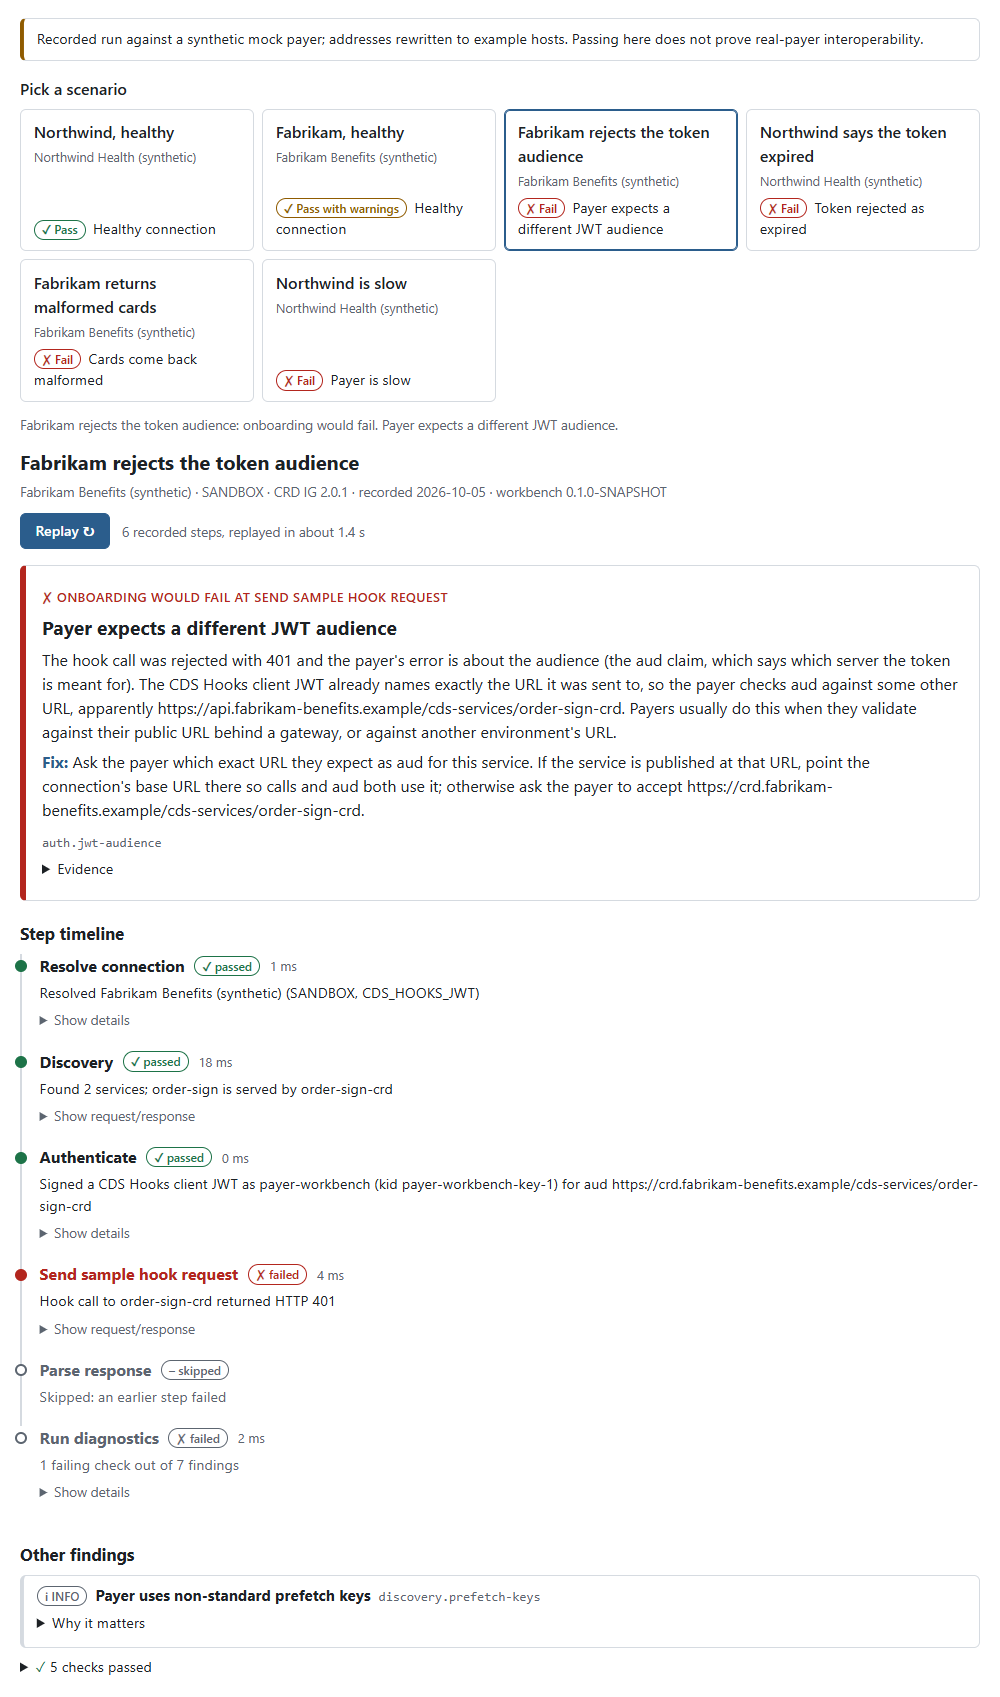
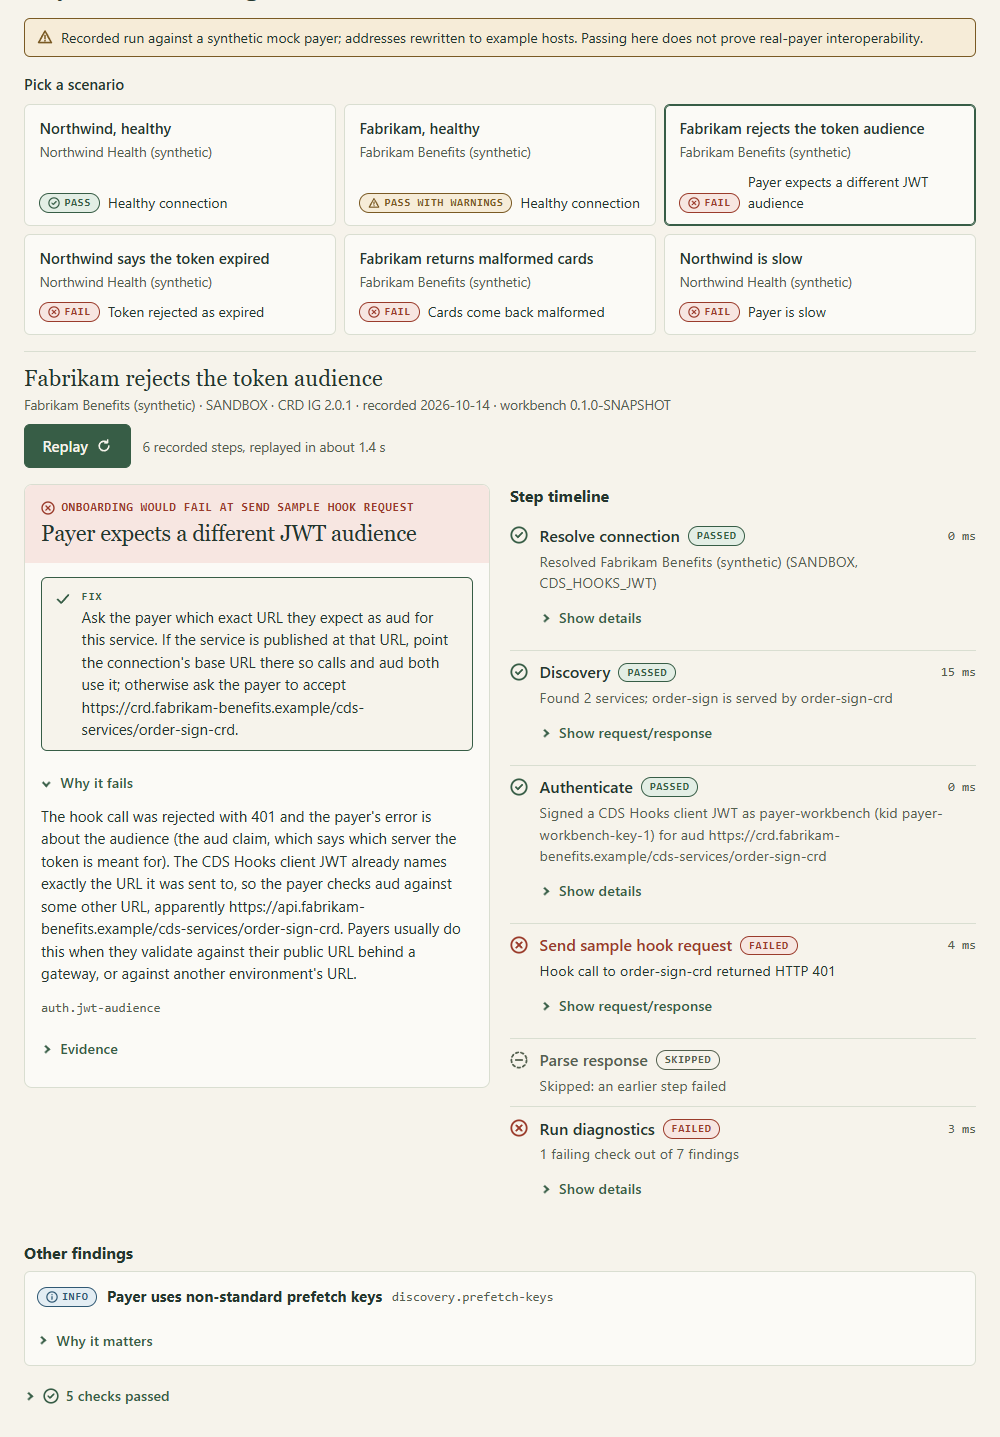
Regenerate the README screenshots and describe the redesigned layout
The README now describes the two-column workspace, the fault and override drawers,
the verdict-first results, the running state, the report's verdict, UTC times and
print rules, and the replay's Fix-first result card and workbench tokens. The UI
testing contract names the states to sweep and the Letter print check.

Claude-Session: https://claude.ai/code/session_01DeFVeTfctTdVnXMom21BJv

Changed region(s): [[0.0, 0.0, 0.992, 1.0], [0.496, 0.7349, 0.744, 0.8573], [0.465, 0.6736, 0.496, 0.7042]]

diff --git a/README.md b/README.md
@@ -72,7 +72,7 @@ To check a change in the running app (launch, doctor, drive the main path, evide
 ./mvnw -pl workbench-app spring-boot:run
 ```
 
-![A failing run: the hook request is rejected with 401 and the findings explain why](docs/screenshots/failing-run.png)
+![A failing run: the setup column beside the verdict card, which names the rejected hook request, its Fix and evidence, then the step timeline with the 401 exchange open](docs/screenshots/failing-run.png)
 
 On startup the app launches all three mock payers in-process on loopback ephemeral ports and seeds a `SANDBOX` `ConnectionRecord` for each in a directory-core `FileBasedConnectionStore` under a temp directory (owner-only where the file system supports POSIX permissions, and deleted on shutdown). Credentials (Northwind's client secret, Fabrikam's and Tailspin's separate RSA signing keys) are generated at startup and held only in memory; they are never written to disk, logged or returned by the API.
 
@@ -87,7 +87,11 @@ A run records these steps, each with its status, latency and redacted HTTP excha
 
 Discovery and hook calls go through the router's `CdsHooksClient`, which owns authentication, token caching, retries, timeouts and response parsing. Discovery uses an unauthenticated copy of the connection because all three synthetic payers advertise public discovery. The SDK's TOKEN and HOOK exchange events populate the separate Authenticate and Hook request steps; an OAuth2 401 shows both hook attempts and the token refresh. Diagnostics evaluate the final hook outcome once. For the JWT payer, a transport observer retains only the claims of the JWT the SDK actually sends. Token event bodies contain only `token_type`, `expires_in` and `scope`; token failures use the SDK's sanitized typed error metadata.
 
-The UI has a payer picker, a "Break it" panel of payer faults, connection settings you can edit for one run (base URL suffix, `igVersion`, client id; never a secret), a step timeline with expandable request/response, and findings grouped by severity with explanation and fix, plus a **Download report** button (HTML, Markdown or JSON) once a run finishes. It follows `prefers-color-scheme`, works at 375 px and is keyboard navigable. It is plain HTML, CSS and JS under `workbench-app/src/main/resources/static`, with no build step.
+The UI is one page. On desktop the setup sits in a 380 px column beside the results, so **Run onboarding** and the answer share the first screen; below 960 px the two stack. The setup column has the payer picker, the environment and sample request, and two drawers for one run: **Payer faults** and **Connection overrides** (base URL suffix, `igVersion`, client id; never a secret). While closed, each drawer's summary says what is on ("1 on: Discovery is down", "Stored settings").
+
+The results lead with the verdict. Before the first run they list the six steps a run walks. While a run is in flight they say what is running, with an indeterminate bar (static under reduced motion) and the six steps pending, and the previous run is hidden. When it ends, the verdict card gives Pass, or where the flow broke, with the first failing check's explanation, **Fix** and evidence, and the **Download report** control (HTML, Markdown or JSON). A compact step timeline follows: one row per step, with skipped steps folded into one row that names the cause, and each HTTP exchange on one line (method, path, status, ms) that opens into request and response side by side. Then come findings grouped by severity, with passing checks collapsed. Status is always an icon plus a word, never colour alone. Focus moves to the results heading when a run finishes.
+
+The page follows `prefers-color-scheme`, has no horizontal scroll from 320 to 2560 px, keeps touch targets at least 44 px and is keyboard navigable. It is plain HTML, CSS and JS under `workbench-app/src/main/resources/static`, with no build step.
 
 ### API
 
@@ -160,11 +164,11 @@ Keys stay in memory for one run, including rejected authentication. Reports show
 
 `GET /api/runs/{id}/report` turns a run into a report you can attach to a ticket or send to a payer. Every format covers the same ground: the verdict (`PASS`, `PASS_WITH_WARNINGS` or `FAIL`, and the step where the flow broke), the payer, environment and CRD IG version (expected by the connection and advertised by the payer), the run's correlation id (see [Observability](#observability)), the step timeline with each HTTP exchange, findings by severity (most severe first) with explanation, redacted evidence and fix, when it was generated and by which workbench version, and the synthetic-data / no-interoperability disclaimer.
 
-- `html` is one self-contained file (inline CSS, no scripts or external assets) that prints cleanly: findings are not split across pages and severity colours are kept.
+- `html` is one self-contained file (inline CSS, no scripts or external assets). It opens with the verdict (icon and word, the step where the flow broke, counts by severity), then the facts with times in UTC to the second, the failing call, the timeline and the findings. The full ISO time stays in each `<time datetime>` attribute. On screen it uses the workbench's tokens and follows a dark preference. Print is always light, keeps headings with the block after them, keeps small blocks (facts, steps, Fix, the curl command, the footer) whole, and lets long bodies and findings flow across pages, so no page is left half blank.
 - `md` is for pasting into an issue or a wiki.
-- `json` is the same report as data, including each step's full (redacted) details.
+- `json` is the same report as data, including each step's full (redacted) details and full ISO timestamps.
 
-A `FAIL` report in `html` and `md` also has a **Failing call** section, between the verdict table and the timeline, so a payer engineer can see and reproduce the failure from the report alone. It shows one exchange: the last call of the step the flow broke at, or, when that step made no call or the flow completed and a check failed (`perf.latency`, `response.coverage-information`), the last hook request. There is no section when neither has a call, as with `connection.record`. The section gives the method, URL, status and latency, the redacted request and response headers and bodies (JSON pretty-printed; each body capped at 16 KiB with a note that the JSON report has the full body) or the transport error, and a `curl` command for the call. The command keeps the non-secret request headers, drops credential headers, `Content-Length` and `Host`, sends `Authorization: Bearer <ACCESS_TOKEN>` (`<CLIENT_JWT>` for CDS Hooks JWT, `Basic <BASE64_CLIENT_ID_AND_SECRET>` for a Basic token request) where one was sent, reads the body shown above from `request.json` (`request-body.txt` for a non-JSON body) with `--data-binary`, and replaces anything the redactor masked with `<SECRET>`, so it never carries a credential or its redacted form. The `json` format is unchanged.
+A `FAIL` report in `html` and `md` also has a **Failing call** section, between the verdict and facts and the timeline, so a payer engineer can see and reproduce the failure from the report alone. It shows one exchange: the last call of the step the flow broke at, or, when that step made no call or the flow completed and a check failed (`perf.latency`, `response.coverage-information`), the last hook request. There is no section when neither has a call, as with `connection.record`. The section gives the method, URL, status and latency, a `curl` command for the call (first in `html`), and the redacted request and response headers and bodies (JSON pretty-printed; each body capped at 16 KiB with a note that the JSON report has the full body) or the transport error. In `html` the request and response sit side by side on screen and stack in print. The command keeps the non-secret request headers, drops credential headers, `Content-Length` and `Host`, sends `Authorization: Bearer <ACCESS_TOKEN>` (`<CLIENT_JWT>` for CDS Hooks JWT, `Basic <BASE64_CLIENT_ID_AND_SECRET>` for a Basic token request) where one was sent, reads the body shown above from `request.json` (`request-body.txt` for a non-JSON body) with `--data-binary`, and replaces anything the redactor masked with `<SECRET>`, so it never carries a credential or its redacted form. The `json` format is unchanged.
 
 Redaction is applied again when the report is built, on top of the redaction already done when exchanges and findings are recorded: every string goes through `Redactor`, and any field named like a secret (`client_secret`, `access_token`, `Authorization`, `privateKey` and similar) is masked. The failing-call section is built from those redacted details and redacted once more after pretty-printing. `RunReportTest` plants a bearer token, a client secret, a JWT signature and a PEM private key in a run's step details, findings, and the failing exchange's request and response headers and bodies, and checks that none of them reach any format or the curl command.
 
@@ -172,7 +176,7 @@ Redaction is applied again when the report is built, on top of the redaction alr
 curl -s "localhost:8080/api/runs/$RUN_ID/report?format=md" -o report.md
 ```
 
-![The Download report control under a failing run](docs/screenshots/report-download.png)
+![The verdict card of a failing run in dark mode: the failing check, its Fix, and the Download report control](docs/screenshots/report-download.png)
 
 ### What each fault and misconfiguration fails
 
@@ -410,7 +414,7 @@ It needs Node 22+ and JDK 21 (`JAVA_HOME` or `java` on the `PATH`). Set `DEMO_SK
 
 The reports for run 3, as HTML:
 
-![Report header: disclaimer, FAIL verdict, payer, environment, IG versions and the step timeline](docs/screenshots/report-html.png)
+![Report header: disclaimer, the FAIL verdict with the step it broke at, the facts with UTC times, and the failing call with Reproduce with curl](docs/screenshots/report-html.png)
 
 ![Report findings: the auth.jwt-audience FAIL with the payer's 401 and the JWT's aud as evidence and a fix, then the INFO about prefetch keys](docs/screenshots/report-findings.png)
 
@@ -463,12 +467,12 @@ On the site:
 </script>
 ```
 
-- **Picking a scenario.** The scenarios are cards in a radio group, so arrow keys move between them. Each card shows the title, the payer and a teaser of what breaks.
-- **Playback.** **Run ▶** plays the recorded steps back one at a time; **Show result** skips to the end. Each step lasts `clamp(recorded ms × 0.25, 350 ms, 1200 ms)`, and if the steps add up to more than 6 s they are all shortened in proportion (`TIMING` in `replay.js`). The recorded milliseconds are always shown as text. A failed run stops at the step where the flow broke (the report's `brokeAt`, else the first failed step), marks it with ✗ and "failed", and greys out the steps after it. On a slow-payer run (`perf.latency` WARN or FAIL), a bar on the slow step fills toward the budget (the 5 s warn and 10 s fail defaults, or the budget stated in the finding) and overshoots it, labelled with the real milliseconds. The run and its result are each announced once through an `aria-live` region. Under `prefers-reduced-motion: reduce`, Run shows the final state at once.
-- **Result first.** When playback ends, a result card above the timeline leads with the first FAIL finding: its title, explanation and fix, with the check id, and "+N more failing checks" when there are several. A run with no FAIL says "Onboarding would succeed" and names the steps it verified. WARN and INFO findings stay visible as one line each, with the explanation behind "Why it matters". Passing checks collapse to "N checks passed".
+- **Picking a scenario.** The scenarios are cards in a radio group, so arrow keys move between them. Each card shows the title, the payer, and a verdict chip (icon and word) with a teaser of what breaks on its bottom line, so the chips in a row line up. Below 36rem of widget width a card shows just its title and verdict.
+- **Playback.** **Run ▶** plays the recorded steps back one at a time; **Show result** skips to the end. Each step lasts `clamp(recorded ms × 0.25, 350 ms, 1200 ms)`, and if the steps add up to more than 6 s they are all shortened in proportion (`TIMING` in `replay.js`). The recorded milliseconds are always shown as text. A failed run stops at the step where the flow broke (the report's `brokeAt`, else the first failed step) and marks it with ✗ and "failed". The steps after it keep their recorded status, icon and word; only skipped steps are muted. On a slow-payer run (`perf.latency` WARN or FAIL), a bar on the slow step fills toward the budget (the 5 s warn and 10 s fail defaults, or the budget stated in the finding) and overshoots it, labelled with the real milliseconds. The run and its result are each announced once through an `aria-live` region. Under `prefers-reduced-motion: reduce`, Run shows the final state at once.
+- **Result first.** When playback ends, a result card leads with the first FAIL finding: a band with an icon and "Onboarding would fail at …", the check's title, then the **Fix**, then the explanation in a **Why it fails** disclosure (open on desktop, folded at 600 px and narrower), with the check id, and "+N more failing checks" when there are several. From 48rem of widget width the result card and the timeline sit side by side. A run with no FAIL says "Onboarding would succeed" and names the steps it verified. WARN and INFO findings stay visible as one line each, with the explanation behind "Why it matters". Passing checks collapse to "N checks passed".
 - **Raw HTTP.** Each step shows its title, status, latency and one-line summary. The redacted request and response headers and bodies sit behind one "Show request/response" disclosure per step (`<details>`, keyboard operable), and scrollable code blocks take focus.
 - **Disclaimer.** Every view starts with "Recorded run against a synthetic mock payer; addresses rewritten to example hosts. Passing here does not prove real-payer interoperability." It is part of the mounted element and cannot be turned off.
-- **Theming.** The colours come from the host page's custom properties when it defines them: `--paper`, `--ink`, `--green`, `--muted`, `--line`, `--accent`, `--warn`, plus an optional `--fail` (the same names as the lab's `lab.css`). Otherwise neutral light and dark defaults follow `prefers-color-scheme`. To theme only the widget, set the `--pw-*` properties (`--pw-paper`, `--pw-ink`, `--pw-fail` and so on) on a selector more specific than `.pw-replay`. Text uses the page's font. The layout works at 375 px.
+- **Theming.** The colours come from the host page's custom properties when it defines them: `--paper`, `--ink`, `--green`, `--muted`, `--line`, `--accent`, `--warn`, plus an optional `--fail` (the same names as the lab's `lab.css`). Otherwise the workbench's own light and dark tokens apply, following `prefers-color-scheme`; tints the host does not define are mixed from its colours. To theme only the widget, set the `--pw-*` properties (`--pw-paper`, `--pw-ink`, `--pw-fail` and so on) on a selector more specific than `.pw-replay`. Text uses the page's font. Replay, Show result and every summary are at least 44 px tall, and the layout works at 320 px.
 - **Safety.** The runs are synthetic, and every string was redacted twice before export: once when it was recorded, and again when the report was built. `replay/test/bundle.test.mjs` scans every bundle file for the patterns `Redactor` masks: PEM blocks, Bearer and Basic credentials, signed JWTs, secret fields in JSON and form bodies, and sensitive headers. It fails on any hit, and also on any file that is not part of the bundle. Point `REPLAY_BUNDLE_DIR` at a vendored copy to check that instead.
 - **Vendoring.** `vendor-into-site.mjs` overwrites the bundle's files in the target and removes stale `runs/*.json`. It leaves everything else in the target alone. Re-export and re-vendor whenever the workbench changes.
 

diff --git a/docs/ui-testing.md b/docs/ui-testing.md
@@ -41,7 +41,7 @@ No persisted connection CRUD, delete, edit modal, app menu or cancel-in-flight c
 
 ## Theme and layout
 
-Theme follows prefers-color-scheme, no app switch. Mobile WebKit on Windows starts plain Tab at the first radio and skips links (Alt+Tab did not change that in this build). Test native radio/select traversal and separately verify skip-link focus visibility/Enter activation; do not claim physical iOS full-keyboard-access coverage. [WebKit documents browser-controlled traversal preferences](https://bugs.webkit.org/show_bug.cgi?id=199671). Verify --paper is #f6f3eb in light and #151b18 in dark. Desktop 1440x900; iPhone SE 375x667 and iPhone 15 393x852 WebKit; Pixel 7 412x915 Chromium; iPad Mini 768x1024 WebKit. Phones also landscape; both themes for every case. Rotate partly filled inputs and open Step details; shrink focused field height to 60%, restore and verify submit remains reachable. Sweep 320/360/375/390/414/600/768/820/1024/1280/1440/1920 at height 900, short desktop 1280x600/1024x500, and very wide 2560. Record effective CSS viewport, overflow sources, touch target rectangles/gaps, input fonts, focus and errors. Test root font scaling at 200% as an approximation, inspect fixed-pixel fonts separately, and test 320 CSS px independently. Native select popup rendering and iOS keyboard/zoom/notch behavior require a physical device; emulation cannot verify those OS effects.
+Theme follows prefers-color-scheme, no app switch. Mobile WebKit on Windows starts plain Tab at the first radio and skips links (Alt+Tab did not change that in this build). Test native radio/select traversal and separately verify skip-link focus visibility/Enter activation; do not claim physical iOS full-keyboard-access coverage. [WebKit documents browser-controlled traversal preferences](https://bugs.webkit.org/show_bug.cgi?id=199671). Verify --paper is #f6f3eb in light and #151b18 in dark. Desktop 1440x900; iPhone SE 375x667 and iPhone 15 393x852 WebKit; Pixel 7 412x915 Chromium; iPad Mini 768x1024 WebKit. Phones also landscape; both themes for every case. Rotate partly filled inputs and open Step details; shrink focused field height to 60%, restore and verify submit remains reachable. Sweep 320/360/375/390/414/600/768/820/1024/1280/1440/1920 at height 900, short desktop 1280x600/1024x500, and very wide 2560. Sweep the empty, running (POST held), failing and comparison states of /, the HTML reports of a failing and a healthy run, and the exported replay, in both themes. Check that the results heading takes focus after Run at desktop and phone widths. Print-check the HTML report on Letter (Chromium PDF from print media): it stays light even with a dark preference, headings stay with the block after them, the curl command and the footer are never split, and long bodies flow without leaving a page half blank. Record effective CSS viewport, overflow sources, touch target rectangles/gaps, input fonts, focus and errors. Test root font scaling at 200% as an approximation, inspect fixed-pixel fonts separately, and test 320 CSS px independently. Native select popup rendering and iOS keyboard/zoom/notch behavior require a physical device; emulation cannot verify those OS effects.
 
 No PWA, manifest, service worker, bottom tabs, fixed header/footer, edge-to-edge/notch design or swipe/drag exists. No standalone/offline app promise: offline browser error is expected when navigating; failed API requests must show a readable error while already loaded. Measure useful-content readiness (loaded payers/samples/run enabled) with Pixel CDP Slow 4G (150ms, 1.6Mbps down, 750Kbps up) and 4x CPU; record cache and CLS. WebKit has no CDP throttle.
 
